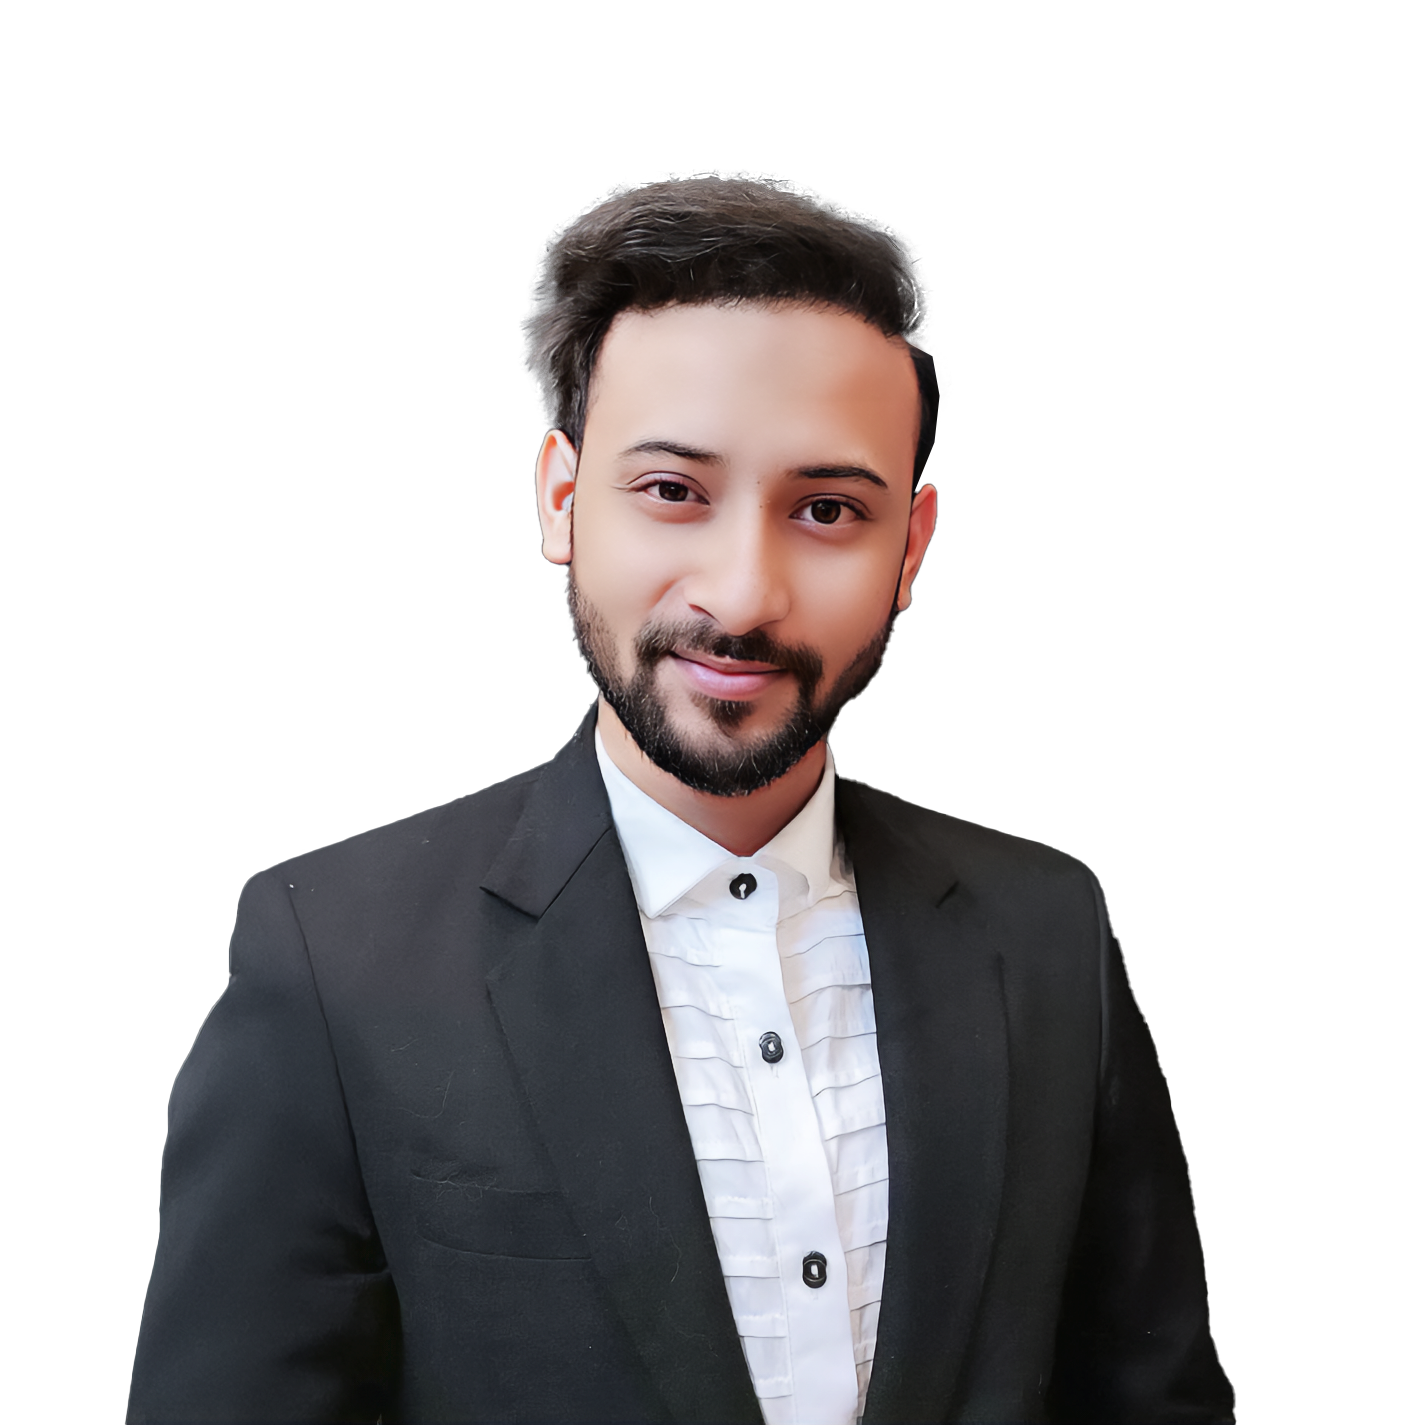
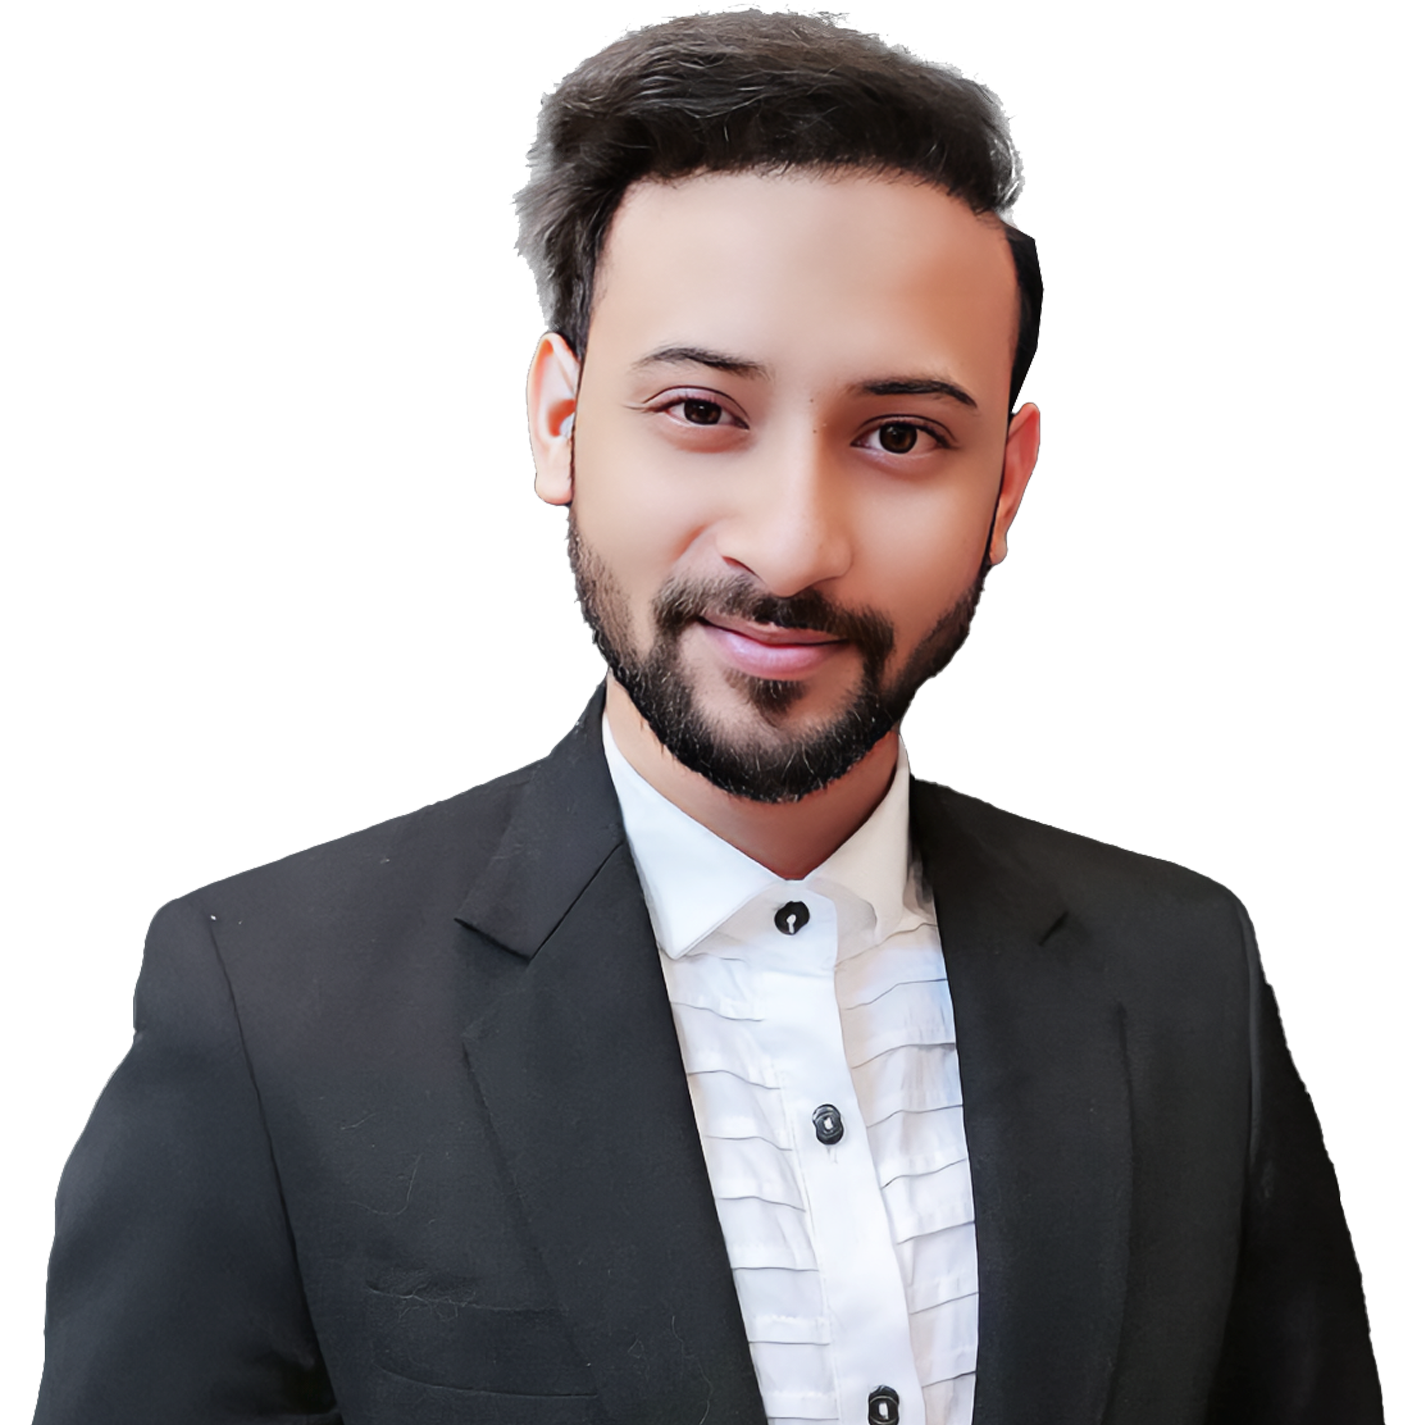
pics uniformity achieved

diff --git a/components/Aboutus/TopManagement.jsx b/components/Aboutus/TopManagement.jsx
@@ -4,12 +4,12 @@ import { Linkedin } from 'lucide-react';
 import { motion } from 'framer-motion'
 import sunil from "../../public/images/aboutus/sunil.jpg"
 import sumithra from "../../public/images/aboutus/sumithra.jpg"
-import deepak from "../../public/images/aboutus/Deepak.jpg"
-import Hemant from "../../public/images/aboutus/Hemant.jpg"
-import Kunal from "../../public/images/aboutus/Kunal.jpg"
-import Megha from "../../public/images/aboutus/Megha.jpg"
-import nilmani from "../../public/images/aboutus/nilmani.jpg"
-import Pradeep from "../../public/images/aboutus/Pradeep.jpg"
+import deepak from "../../public/images/aboutus/Deepak.png"
+import Hemant from "../../public/images/aboutus/Hemant.png"
+import Kunal from "../../public/images/aboutus/Kunal.png"
+import Megha from "../../public/images/aboutus/Megha.png"
+import nilmani from "../../public/images/aboutus/nilmani.png"
+import Pradeep from "../../public/images/aboutus/Pradeep.png"
 import Zaki from "../../public/images/aboutus/zaki.png"
 import Image from 'next/image';
 import { Outfit } from 'next/font/google';
@@ -52,48 +52,49 @@ const TopManagement = () => {
             linkedIn: "#"
         },
         {
-            id: 2,
-            name: "Hemant",
-            position: "Asst. Manager - Products",
-            image: Hemant,
-            linkedIn: "#"
-        },
-        
-        {
-            id:3 ,
-            name: "Kunal",
-            position: "Team Lead - Communication",
-            image: Kunal,
-            linkedIn: "#"
-        },
-        {
-            id:4 ,
+            id: 2 ,
             name: "Megha",
             position: "Manager - Tech Sync",
             image: Megha,
             linkedIn: "#"
         },
+        
+        
         {
-            id:5 ,
+            id: 4,
+            name: "Hemant",
+            position: "Assistant Manager - Products",
+            image: Hemant,
+            linkedIn: "#"
+        },
+        {
+            id: 5 ,
             name: "Nityananada",
             position: "Assistant Manager - Sales",
             image: nilmani,
             linkedIn: "#"
         },
         {
-            id:6 ,
+            id: 6 ,
             name: "Pradeep",
             position: "Assistant Manager - Operations",
             image: Pradeep,
             linkedIn: "#"
         },
         {
-            id:6 ,
+            id: 7 ,
             name: "Zaki",
             position: "Assistant Manager - Inside Sales",
             image: Zaki,
             linkedIn: "#"
-        }
+        },
+        {
+            id: 3 ,
+            name: "Kunal",
+            position: "Team Lead - Communication",
+            image: Kunal,
+            linkedIn: "#"
+        },
     ];
     useEffect(() => {
         const observer = new IntersectionObserver(
